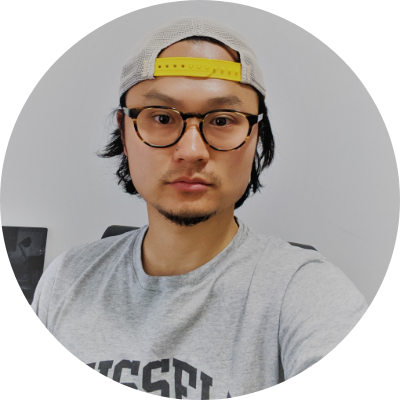
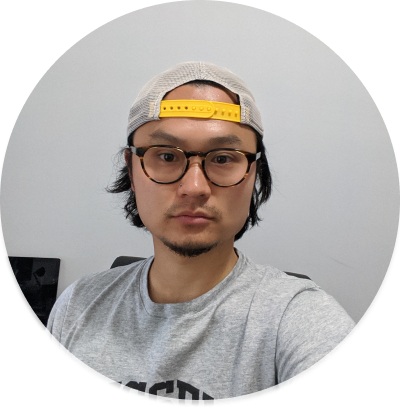
change background color and profile pic

diff --git a/style.css b/style.css
@@ -1,6 +1,7 @@
 
 html {
     font-size:10px;
+    background-color: #E5E5E5;
   }
 
   .container{
@@ -30,7 +31,7 @@ a:visited {
 
 
 nav{
-    background-color: #ffffff;
+    background-color: #E5E5E5;
     grid-area: nav;
     font-size: 1.6rem;
     display: flex;
@@ -145,7 +146,7 @@ li {
 }
      
 #whitespace0{
-    background-color: rgb(255, 255, 255);
+    background-color: #E5E5E5;
     grid-area:whitespace0;
 }
 main{
@@ -164,7 +165,7 @@ main{
    
 .right {
   width: 50%;
-  background-color: rgb(255, 255, 255);
+  background-color: #E5E5E5(255, 255, 255);
   position: relative;
   
 }
@@ -179,7 +180,7 @@ main{
 
 .left {
     width: 50%;
-    background-color: rgb(255, 255, 255);
+    background-color: #E5E5E5(255, 255, 255);
     position: relative;
   }
 
@@ -193,7 +194,7 @@ main{
 
   
 .box1{
-    background-color: rgb(255, 255, 255);
+    background-color: #E5E5E5(255, 255, 255);
     width: 75%;
     position: absolute;
     top: 40%;
@@ -288,7 +289,7 @@ left: 33%;}
 
 
 #whitespace1{
-    background-color:rgb(255, 255, 255);
+    background-color:#E5E5E5;
     grid-area:whitespace1;
 }
 
@@ -296,7 +297,7 @@ left: 33%;}
 
 
 footer{ font-family:Roboto, 'Open Sans', 'Helvetica Neue', sans-serif;
-    background-color:rgb(255, 255, 255);
+    background-color:#E5E5E5;
     grid-area:footer;
     text-align: center;
 }
